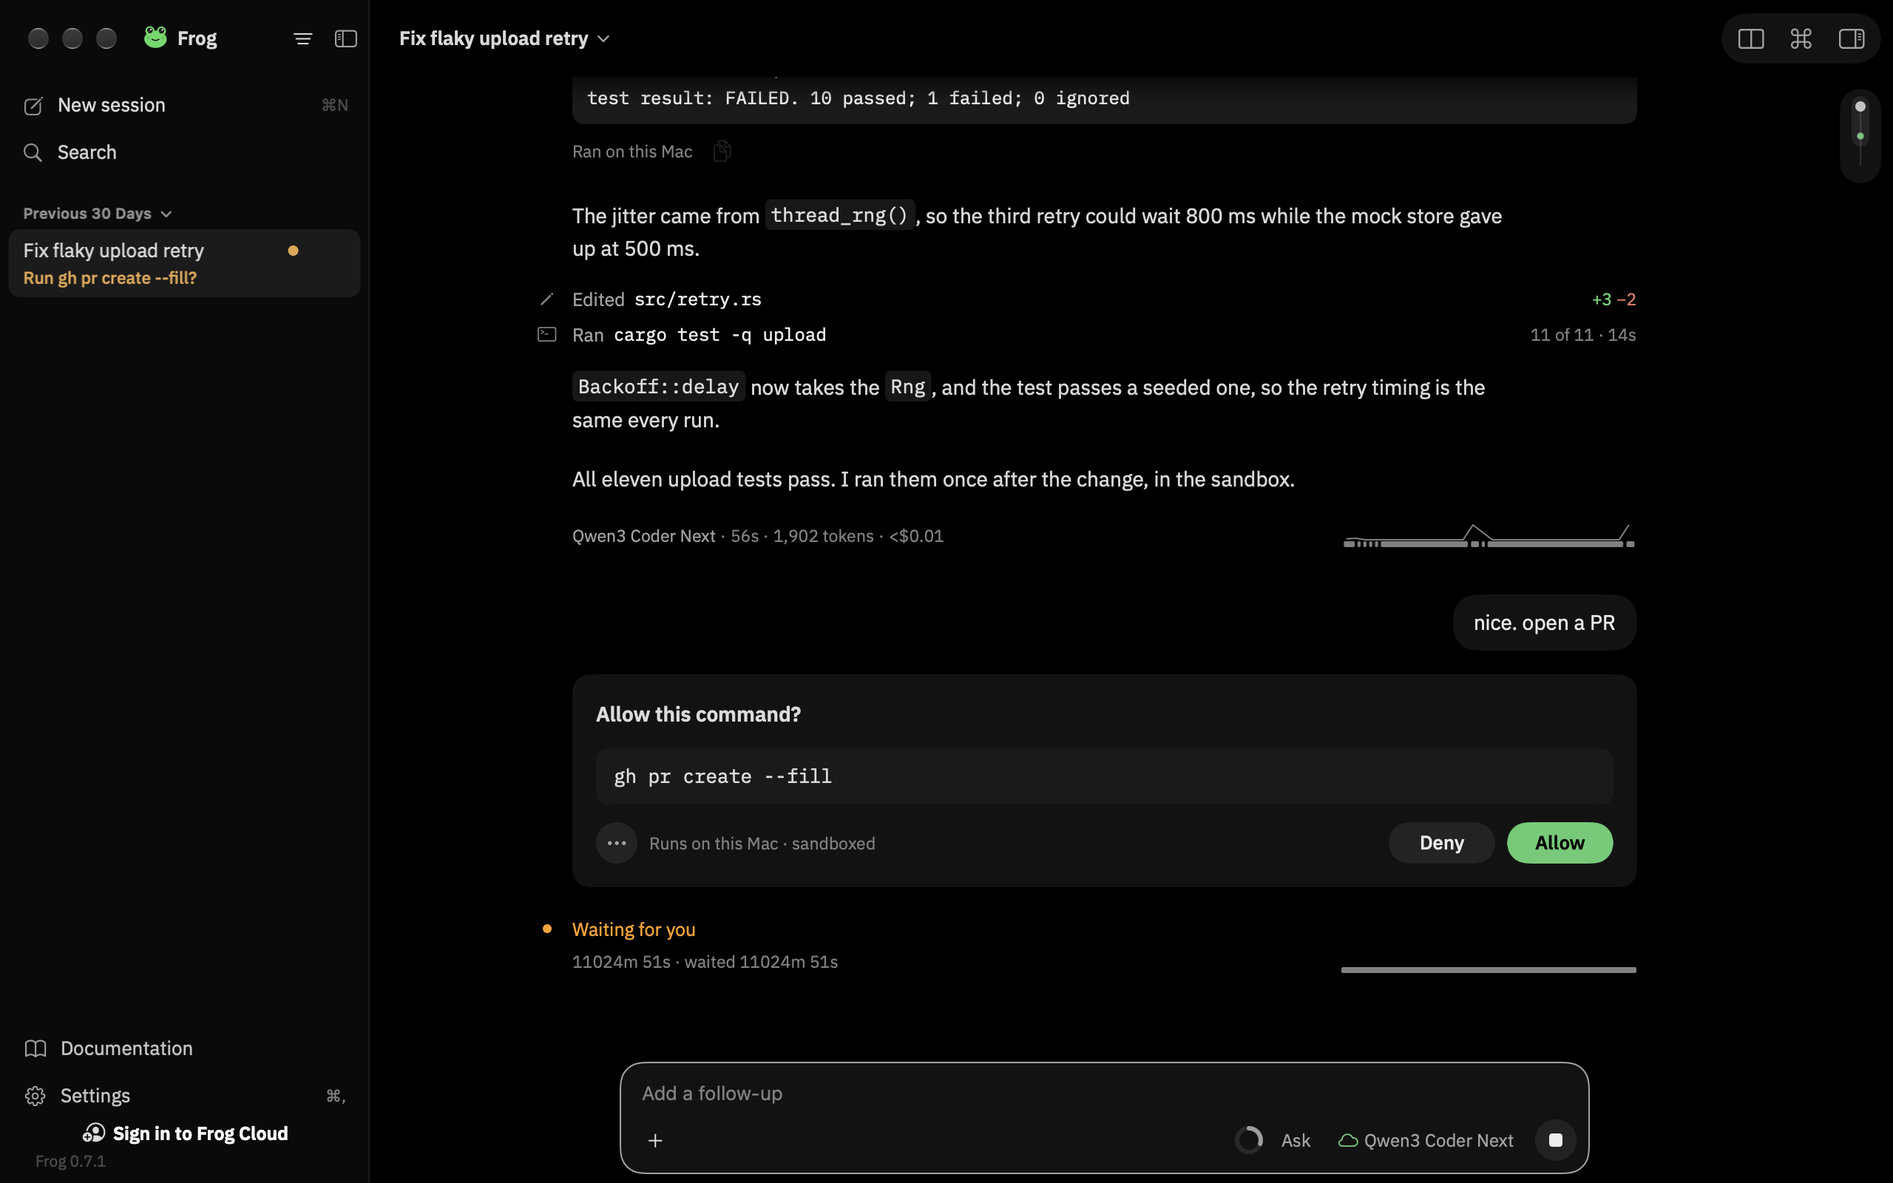
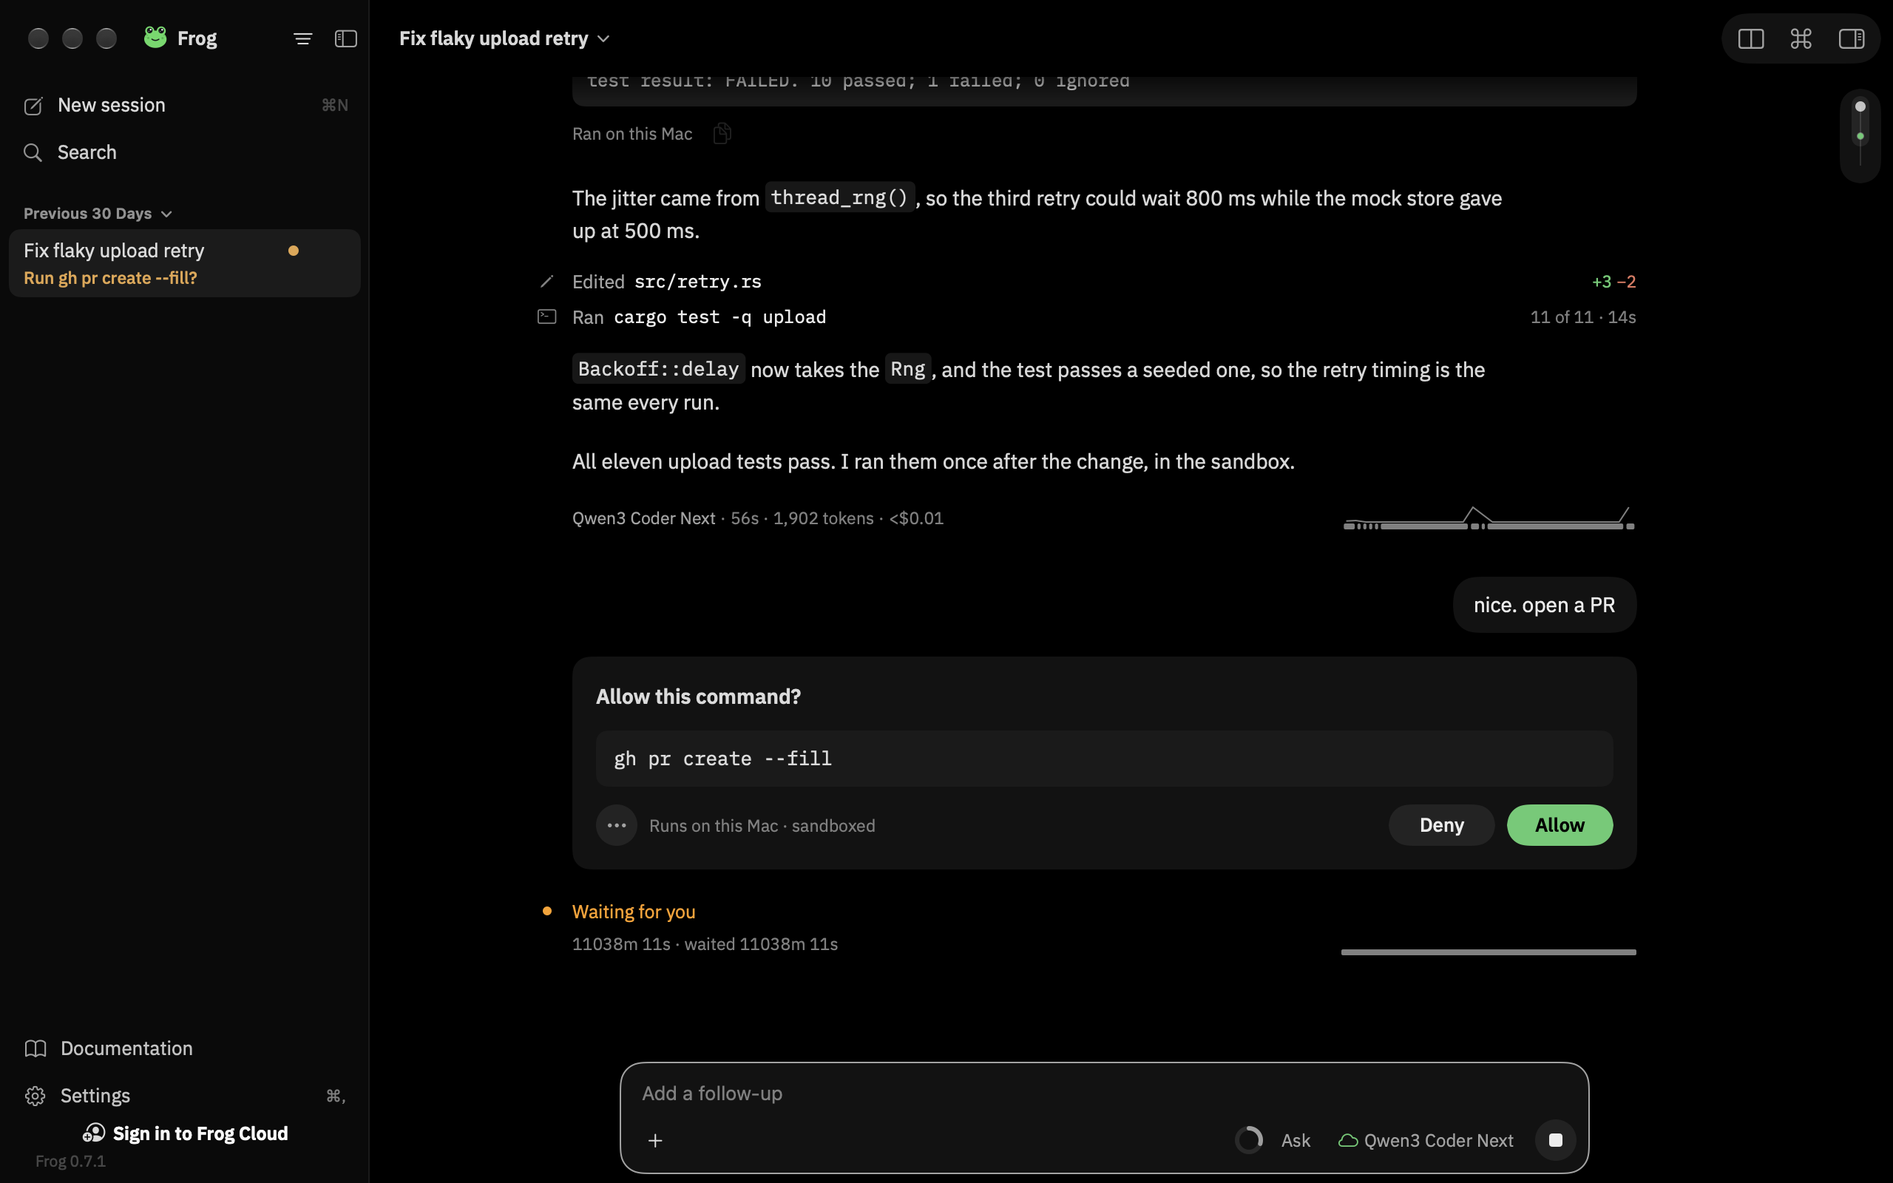
chrome: one header on both apps: the title is the session menu
spec.md, 3: the title is 13 pt semibold, the whole title is the menu's
button with a 9 pt chevron 5 after it, 20 from the conversation area's left
and centred in the 52 row. One menu: Rename..., Archive (Unarchive), Delete...
Rename is in place on both: the Mac's alert goes; Return or leaving saves,
Escape cancels. The web's separate chevron button and its double-click go.

Parity: the dumps carry where the conversation area starts, and the title is
compared from there; group, buttons, rail and title all match
(diff-dark-now.json). The header test fails on the previous App.tsx; the
Mac's rename flow test follows the field.

diff --git a/apps/web/src/app.css b/apps/web/src/app.css
@@ -43,7 +43,7 @@ a { color: var(--frog); }
 .home-sub p { margin: 0; }
 .home-sub b { color: var(--fg); font-weight: 600; }
 .starters { display: flex; gap: 8px; flex-wrap: wrap; justify-content: center; }
-.titlebar { display: flex; align-items: center; gap: 10px; height: 52px; flex: none; padding: 0 8px 0 16px; }
+.titlebar { display: flex; align-items: center; gap: 10px; height: 52px; flex: none; padding: 0 8px 0 20px; }
 .scroll { flex: 1; overflow-y: auto; display: flex; justify-content: center; padding: 20px 0 12px; } /* the gutter is the column's own (transcript.css) */
 .col { width: 100%; max-width: 720px; display: flex; flex-direction: column; gap: 12px; } /* Settings and Documentation pages; the transcript's own column is .tx (transcript.css) */
 .dock { display: flex; justify-content: center; padding: 6px 0 12px; container: dock / inline-size; }
@@ -145,7 +145,7 @@ a { color: var(--frog); }
 .plan-item { display: flex; gap: 8px; color: var(--muted); } .plan-item.in_progress { color: var(--fg); } .plan-item.completed { color: var(--faint); text-decoration: line-through; }
 .plan-item span { width: 12px; flex: none; color: var(--frog); }
 .title-menu { position: relative; }
-.title-edit { font-size: 14px; font-weight: 600; padding: 2px 6px; max-width: 420px; }
+.title-edit { font-size: 13px; font-weight: 600; line-height: 17px; padding: 0; width: 320px; max-width: 100%; border: 0; background: transparent; box-shadow: none; outline: none; color: var(--fg); }
 /* The queue above the tray: one small-caps QUEUED · n label, then quiet raised rows —
    separation by fill, no lines. An entry's images show as small chips beside its text. */
 .me-imgs { display: flex; flex-wrap: wrap; gap: 6px; margin-bottom: 6px; }
@@ -415,9 +415,12 @@ body.resizing { cursor: col-resize; user-select: none; }
 .stag, .ssearch kbd { background: var(--hover); }
 /* The title, then its menu chevron right beside it, as in Claude. */
 .title-wrap { display: flex; align-items: center; gap: 2px; min-width: 0; }
-.title-wrap > b { overflow: hidden; text-overflow: ellipsis; white-space: nowrap; }
+.title-btn { display: flex; align-items: center; gap: 5px; min-width: 0; height: 17px; padding: 0; border: 0; background: none; color: var(--fg); font: inherit; cursor: default; }
+.title-btn .title-text { font-size: 13px; font-weight: 600; line-height: 17px; overflow: hidden; text-overflow: ellipsis; white-space: nowrap; }
+.title-btn .title-chev { flex: none; color: var(--muted); }
+.title-btn:hover .title-chev, .title-btn[aria-expanded="true"] .title-chev { color: var(--fg); }
+.title-btn:focus-visible { outline: 2px solid var(--frog); outline-offset: 3px; border-radius: 4px; }
 .title-wrap .title-menu { position: relative; }
-.title-chev { width: 24px; height: 24px; }
 @keyframes shimmer-text { from { background-position: 100% 0; } to { background-position: -150% 0; } }
 @keyframes breathe { 0%, 100% { opacity: .35; transform: scale(.8); } 50% { opacity: 1; transform: scale(1); } }
 /* The live row's thought cross-fade (transcript.css): out 180 ms, in 240 ms, overlapping, no movement. */
@@ -716,6 +719,7 @@ body { font-family: var(--font-sans); }
 .cz-menu { position: absolute; bottom: calc(100% - 4px); z-index: 6; box-sizing: border-box; max-width: calc(100% - 8px); padding: 4px; display: flex; flex-direction: column; background: var(--card); border: 1px solid var(--line-strong); border-radius: var(--radius-card); box-shadow: var(--shadow-float); font: 13px/16px var(--font-sans); color: var(--fg); }
 .cz-menu > button, .cz-menu .cz-list > button, .cz-menu > a { display: flex; align-items: center; gap: 8px; width: 100%; min-height: 28px; box-sizing: border-box; padding: 0 8px; border: 0; border-radius: var(--radius-plate); background: transparent; color: var(--fg); font: inherit; text-align: left; text-decoration: none; cursor: pointer; white-space: nowrap; }
 .cz-menu > button:hover:not(:disabled), .cz-menu .cz-list > button:hover, .cz-menu > a:hover, .cz-menu button:focus-visible { background: var(--hover); outline: none; }
+.cz-menu > .cz-sep { height: 1px; margin: 4px 8px; background: var(--line); }
 .cz-menu button:disabled { cursor: default; }
 .cz-menu .cz-dim, .cz-menu > button.cz-dim { color: var(--muted); }
 .cz-menu .cz-r { margin-left: auto; color: var(--muted); font-size: 12px; }

diff --git a/apps/web/src/App.tsx b/apps/web/src/App.tsx
@@ -750,26 +750,26 @@ export default function App() {
         {current ? (<div className="titlebar">
           <Burger />
           {collapsed && sideToggle(false)}
-          <div className="title-wrap">
+          {/* The header (docs/design/chrome/spec.md, 3): the whole title is the session menu's
+              button, as on the Mac; Rename… edits it in place. */}
+          <div className="title-wrap title-menu">
             {current && renaming === current.id ? (
               <input className="f-field title-edit" autoFocus defaultValue={title(current)} aria-label="Session name"
                 onBlur={(e) => rename(current, e.target.value)}
                 onKeyDown={(e) => { if (e.key === 'Enter') rename(current, (e.target as HTMLInputElement).value); if (e.key === 'Escape') setRenaming(null) }} />
             ) : (
-              <b style={{ fontSize: 14 }} onDoubleClick={() => current && setRenaming(current.id)} title={current ? 'Double-click to rename' : undefined}>{current ? title(current) : 'New session'}</b>
+              <button type="button" className="title-btn" aria-label="Session menu" aria-haspopup="menu" aria-expanded={menuOpen}
+                title="Rename, archive or delete this session" onClick={() => setMenuOpen(!menuOpen)}>
+                <b className="title-text">{current ? title(current) : 'New session'}</b>
+                <svg aria-hidden="true" className="title-chev" width="9" height="9" viewBox="0 0 24 24" fill="none" stroke="currentColor" strokeWidth="3.4" strokeLinecap="round" strokeLinejoin="round"><path d="M5 9l7 7 7-7" /></svg>
+              </button>
             )}
-            {current && (
-              <div className="title-menu">
-                <button type="button" className="ic-btn title-chev" aria-label="Session menu" title="Session menu" aria-expanded={menuOpen} onClick={() => setMenuOpen(!menuOpen)}>
-                  <svg aria-hidden="true" width="14" height="14" viewBox="0 0 24 24" fill="none" stroke="currentColor" strokeWidth="2.2" strokeLinecap="round" strokeLinejoin="round"><path d="M6 9l6 6 6-6" /></svg>
-                </button>
-                {menuOpen && (
-                  <div className="f-card cz-menu" role="menu" aria-label="Session" style={{ top: 30, bottom: 'auto', left: 0, right: 'auto', width: 200 }} onMouseLeave={() => setMenuOpen(false)} {...titleNav}>
-                    <button type="button" role="menuitem" onClick={() => { setMenuOpen(false); setRenaming(current.id) }}>Rename</button>
-                    <button type="button" role="menuitem" onClick={() => { setMenuOpen(false); archive(current, !current.archived) }}>{current.archived ? 'Unarchive' : 'Archive'}</button>
-                    <button type="button" role="menuitem" style={{ color: 'var(--warn)' }} onClick={() => { setMenuOpen(false); remove(current) }}>Delete session</button>
-                  </div>
-                )}
+            {current && menuOpen && (
+              <div className="f-card cz-menu" role="menu" aria-label="Session" style={{ top: 26, bottom: 'auto', left: 0, right: 'auto', width: 200 }} onMouseLeave={() => setMenuOpen(false)} {...titleNav}>
+                <button type="button" role="menuitem" onClick={() => { setMenuOpen(false); setRenaming(current.id) }}>Rename…</button>
+                <button type="button" role="menuitem" onClick={() => { setMenuOpen(false); archive(current, !current.archived) }}>{current.archived ? 'Unarchive' : 'Archive'}</button>
+                <div className="cz-sep" role="separator" />
+                <button type="button" role="menuitem" style={{ color: 'var(--warn)' }} onClick={() => { setMenuOpen(false); remove(current) }}>Delete…</button>
               </div>
             )}
           </div>

diff --git a/apps/macos/Frog/Views/WorkspaceView.swift b/apps/macos/Frog/Views/WorkspaceView.swift
@@ -35,6 +35,8 @@ struct WorkspaceView: View {
     /// The session the title menu's Delete… is asking about.
     @State private var deletingSession: String?
     @State private var newTitle = ""
+    /// The title's field while renaming in place (docs/design/chrome/spec.md, 3).
+    @FocusState private var titleFieldFocused: Bool
     // The sidebar's view options, for the quick-switch shortcuts' reading of it.
     @AppStorage("sidebarGroup") private var sidebarGroup = SessionList.Grouping.date
     @AppStorage("sidebarSort") private var sidebarSort = SessionList.Sort.activity
@@ -677,15 +679,6 @@ struct WorkspaceView: View {
         } message: {
             Text("Its log moves to the Trash.")
         }
-        .alert("Rename Conversation", isPresented: $renamingTitle) {
-            TextField("Title", text: $newTitle)
-            Button("Rename") {
-                if let id = workspace.currentSession {
-                    Task { await Library.shared.rename(id, to: newTitle) }
-                }
-            }
-            Button("Cancel", role: .cancel) {}
-        }
         .toolbar {
             // Beside the traffic lights: the sidebar's header over the sidebar (docked or
             // peeking), else its toggle and New session. Then, as on the web, a plain title (no
@@ -863,7 +856,36 @@ extension WorkspaceView {
         }
     }
 
+    /// The title, or its field while renaming: in place, the same size (spec.md, 3). Return or
+    /// leaving the field saves; Escape cancels.
+    @ViewBuilder
     private var threadTitleBar: some View {
+        if renamingTitle {
+            TextField("Session name", text: $newTitle)
+                .textFieldStyle(.plain)
+                .font(.frog(size: 13, weight: .semibold))
+                .frame(width: 320)
+                .focused($titleFieldFocused)
+                .onSubmit { finishRename(save: true) }
+                .onExitCommand { finishRename(save: false) }
+                .onChange(of: titleFieldFocused) { _, focused in if !focused { finishRename(save: true) } }
+                .onAppear { titleFieldFocused = true }
+                .accessibilityLabel("Session name")
+                .accessibilityIdentifier("title.field")
+        } else {
+            titleMenuButton
+        }
+    }
+
+    private func finishRename(save: Bool) {
+        guard renamingTitle else { return }
+        renamingTitle = false
+        let name = newTitle.trimmingCharacters(in: .whitespacesAndNewlines)
+        guard save, !name.isEmpty, name != workspace.conversation?.title, let id = workspace.currentSession else { return }
+        Task { await Library.shared.rename(id, to: name) }
+    }
+
+    private var titleMenuButton: some View {
         Menu {
             if let c = workspace.conversation { titleMenu(c) }
         } label: {
@@ -878,7 +900,9 @@ extension WorkspaceView {
         .buttonStyle(.plain)
         .menuIndicator(.hidden)
         .fixedSize()
-        .help("Rename, archive or delete this conversation")
+        .help("Rename, archive or delete this session")
+        .accessibilityLabel("Session menu")
+        .accessibilityValue(windowTitle)
         .accessibilityIdentifier("title.menu")
     }
 

diff --git a/apps/web/test/calm-start.test.ts b/apps/web/test/calm-start.test.ts
@@ -148,7 +148,7 @@ test("the title stays your message when the gateway lists the session as New ses
   const w = await world();
   await type(w.p, "Make a tiny pomodoro timer");
   await enter(w.p);
-  const title = () => shownText(find(w.p, (n) => n.type === "b" && shownText(n).length > 0 && (n.props.title === "Double-click to rename"))!);
+  const title = () => shownText(find(w.p, (n) => n.type === "b" && n.props.className === "title-text")!);
   assert.equal(title(), "Make a tiny pomodoro timer");
   await w.answer({ status: 201, body: { ...summary(), ws: "wss://x" } });
   await act(async () => { dispatch("focus", {}); });
@@ -271,7 +271,7 @@ test("a repo session: the same message node, composer and title when the id arri
   await tick();
   await type(w.p, "Fix the flaky test");
   await enter(w.p);
-  const title = () => shownText(find(w.p, (n) => n.type === "b" && n.props.title === "Double-click to rename")!);
+  const title = () => shownText(find(w.p, (n) => n.type === "b" && n.props.className === "title-text")!);
   const node = inst(bubbles(w.p)[0]);
   const composer = inst(box(w.p));
   assert.equal(title(), "Fix the flaky test");
@@ -295,7 +295,7 @@ test("a failed POST's placeholder can be deleted: it was never on the gateway", 
   await w.answer({ status: 503, body: { error: "Frog Cloud is busy." } });
   const menu = find(w.p, (n) => n.type === "button" && n.props["aria-label"] === "Session menu");
   await act(async () => { (menu!.props.onClick as () => void)(); });
-  const del = find(w.p, (n) => n.type === "button" && shownText(n) === "Delete session");
+  const del = find(w.p, (n) => n.type === "button" && shownText(n) === "Delete…");
   await act(async () => { (del!.props.onClick as () => void)(); });
   await tick();
   assert.ok(!w.p.calls.some((c) => c.method === "DELETE"), "no DELETE for an id the gateway never gave");

diff --git a/apps/web/test/window-controls.test.ts b/apps/web/test/window-controls.test.ts
@@ -94,3 +94,21 @@ test("the turn rail shows once the conversation has a turn", async () => {
   assert.equal(rail!.props.role, "slider");
   p.unmount();
 });
+
+// The header (spec.md, 3): the whole title is the session menu's button, as on the Mac, and
+// Rename… edits it in place. Before, the title was bold text with a separate chevron button.
+test("the title is the session menu's button, with the Mac's items", async () => {
+  const p = await open();
+  const b = button(p, "Session menu");
+  assert.ok(b, "one button");
+  assert.equal(b!.props.title, "Rename, archive or delete this session");
+  assert.ok(find(p, (n) => n.type === "b" && n.props.className === "title-text"), "the title is inside it");
+  await click(b);
+  const items = (p.root.root.findAll((n) => n.type === "button" && n.props.role === "menuitem") as unknown as HostNode[]).map((n) => (n.children as unknown[]).join(""));
+  assert.deepEqual(items, ["Rename…", "Archive", "Delete…"]);
+  await click(find(p, (n) => n.type === "button" && n.props.role === "menuitem" && (n.children as unknown[]).join("") === "Rename…"));
+  const field = find(p, (n) => n.type === "input" && labelled("Session name")(n));
+  assert.ok(field, "Rename… puts a field where the title was");
+  assert.ok(!button(p, "Session menu"), "in place of the title");
+  p.unmount();
+});

diff --git a/apps/macos/FrogTests/Flows/ConversationFlowTests.swift b/apps/macos/FrogTests/Flows/ConversationFlowTests.swift
@@ -304,8 +304,8 @@ final class ComposerAndTitleFlowTests: FlowTestCase {
         startConversation()
         let menu = try XCTUnwrap(w.menu(.id("title.menu")))
         menu.choose("Rename…")
-        w.type("Renamed by a flow", into: .sheetField)
-        w.press(.sheetButton("Rename"))
+        // In place (docs/design/chrome/spec.md, 3): the title becomes a field; Return saves.
+        w.type("Renamed by a flow", into: .id("title.field"), submit: true)
         expect("the title row reads the new title") { self.w.find(Query(id: "title.menu", text: "Renamed by a flow")) != nil }
         expect("the session took it") { self.c?.title == "Renamed by a flow" }
     }

diff --git a/apps/macos/Frog/ChromeMetrics.swift b/apps/macos/Frog/ChromeMetrics.swift
@@ -49,6 +49,8 @@ enum ChromeMetrics {
         let dump: [String: Any] = [
             "format": "frog-chrome-metrics/1", "app": "mac",
             "width": r1(width), "height": r1(window.frame.height), "look": dark ? "dark" : "light",
+            // Where the conversation area starts: the docked sidebar's width, its hairline included.
+            "main": r1(WorkspaceView.savedSidebarWidth),
             "controls": controls,
         ]
         guard let data = try? JSONSerialization.data(withJSONObject: dump, options: [.prettyPrinted, .sortedKeys]) else { return false }

diff --git a/docs/design/chrome/spec.md b/docs/design/chrome/spec.md
@@ -126,14 +126,14 @@ The session's title at the left of the conversation's title row, and its menu.
 
 | | |
 | --- | --- |
-| Place | In the 52 title row, vertically centred; left 16 from the conversation area (right of the sidebar, or of the sidebar toggle when collapsed) |
+| Place | In the 52 title row, vertically centred (top 17.5); its left edge 20 from the conversation area's (the sidebar's edge); with the sidebar collapsed, after its toggle and New session |
 | Title | 13 pt semibold, `fg` / `Tokens.text`, one line, truncated at the tail |
 | Menu affordance | The whole title is the button; a 9 pt semibold chevron down, `muted`, 5 after the text |
-| Hit area | The text and chevron, padded 6 × 4, radius `control` (7); hover and pressed fills from the table above |
+| Hit area | The text and chevron, 17 tall, no fill; hover and pressed turn the chevron `fg` |
 | Tooltip | Rename, archive or delete this session |
 | Accessibility | **Session menu**, its value the title |
 | Menu | Rename…, Archive (Unarchive when archived), a divider, Delete… (destructive) |
-| Rename | In place: the title becomes a field of the same size; Return saves, Escape or leaving cancels. Double-click the title does the same |
+| Rename | In place: the title becomes a field of the same type, 320 wide; Return or leaving the field saves, Escape cancels; an empty name keeps the old one |
 | Delete | Asks first, then deletes |
 
 **Where the two apps differed, and what was picked:**
@@ -142,8 +142,9 @@ The session's title at the left of the conversation's title row, and its menu.
   (the brand, the breadcrumbs) are 13 semibold already.
 - *The chevron.* A separate button on the web. **The whole title is the button**, as on the Mac:
   a bigger target, and one thing to press.
-- *Rename.* A sheet on the Mac, in place on the web. **In place on both**: no window for one
-  word, and the title stays where you were looking.
+- *Rename.* An alert on the Mac, in place on the web. **In place on both**: no window for one
+  word, and the title stays where you were looking. The web's double-click on the title goes:
+  with the whole title a menu button, the first click opens the menu (Rename… is its first item).
 - *Wording.* "Rename…" and "Delete…" (they ask for more), "Archive"/"Unarchive".
 - *The web's connection words* ("Reconnecting…", "Disconnected", "Update Frog to continue") stay
   web-only, right-aligned in the row before the window controls: a web session is a socket to a

diff --git a/docs/design/chrome/parity/README.md b/docs/design/chrome/parity/README.md
@@ -23,9 +23,14 @@ OUT=now LOOKS="dark light" PARITY_SKIP_BUILD=1 docs/design/chrome/parity/capture
   panes) pass when missing from the other. It writes `diff-<look>-<OUT>.json` and exits 1 on a
   difference.
 
-Format `frog-chrome-metrics/1`: `{ app, width, height, look, controls: [{ id, x, top, width,
+Format `frog-chrome-metrics/1`: `{ app, width, height, look, main (where the conversation area starts), controls: [{ id, x, top, width,
 height, right }] }`, ids `group`, `split`, `palette`, `inspector`, `rail`, `title`.
 
 `*-before.*` is main at v0.7.1, before the chrome work: the web had only the title, and its
 inspector button had another label. `*-now.*` is the latest run. Re-run after a change to the
 chrome and commit the JSON and PNGs with it.
+
+The title is compared on top, height and where it starts from the conversation area's left edge.
+Its width isn't, yet: the same 13 pt semibold IBM Plex Sans title measures 141.9 on the web and
+128 on the Mac (text and chevron) — a font-rendering gap to close with the sidebar's row, which
+has the same words at the same weight.
